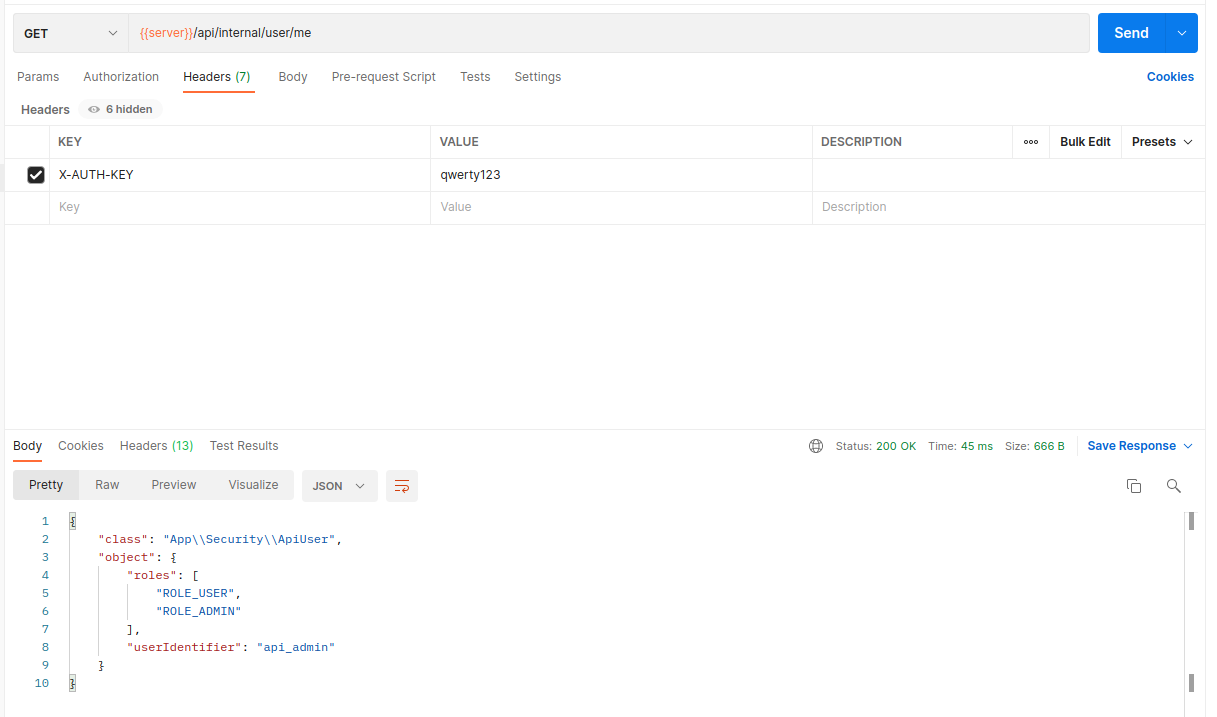
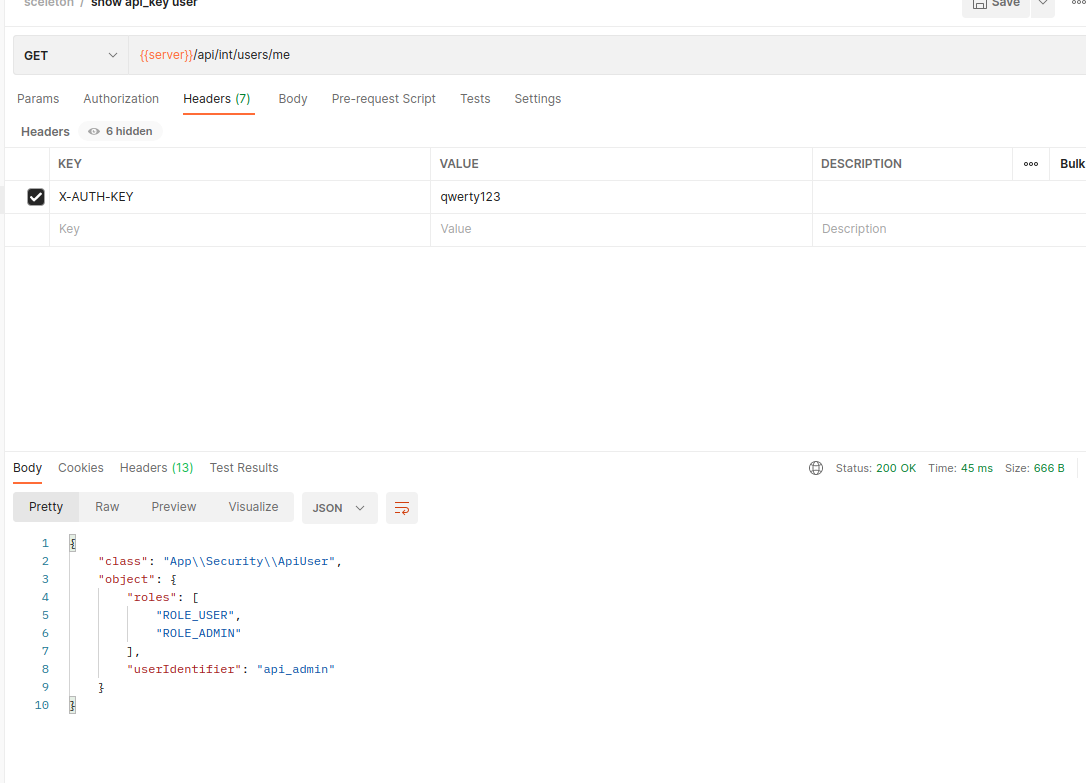
update doc

diff --git a/README.md b/README.md
@@ -65,7 +65,7 @@ security:
   firewalls:
     # ...
     api_key:
-      pattern: ^/api/rest  
+      pattern: ^/api/int  
       lazy: true
       provider: api_key_user_provider
       custom_authenticator: Grsu\ApiKeySecurity\ApiKeyAuthentication
@@ -91,7 +91,7 @@ use Symfony\Component\Serializer\Normalizer\NormalizerInterface;
 class UserController extends AbstractController
 {
 
-    #[Route('/api/rest/user/me', name: 'api_user_info', methods:['GET'])]
+    #[Route('/api/int/users/me', name: 'api_user_info', methods:['GET'])]
     public function index(NormalizerInterface $normalizer): Response
     {
         $user = $this->getUser();
@@ -106,6 +106,6 @@ class UserController extends AbstractController
 
 ```
 
-For request use ```X-AUTH-KEY``` with ```api_key``` from ```api_users.yaml```.
+For request use ```X-AUTH-KEY``` header with ```api_key``` from ```api_users.yaml```.
 
 ![img.png](img.png)
